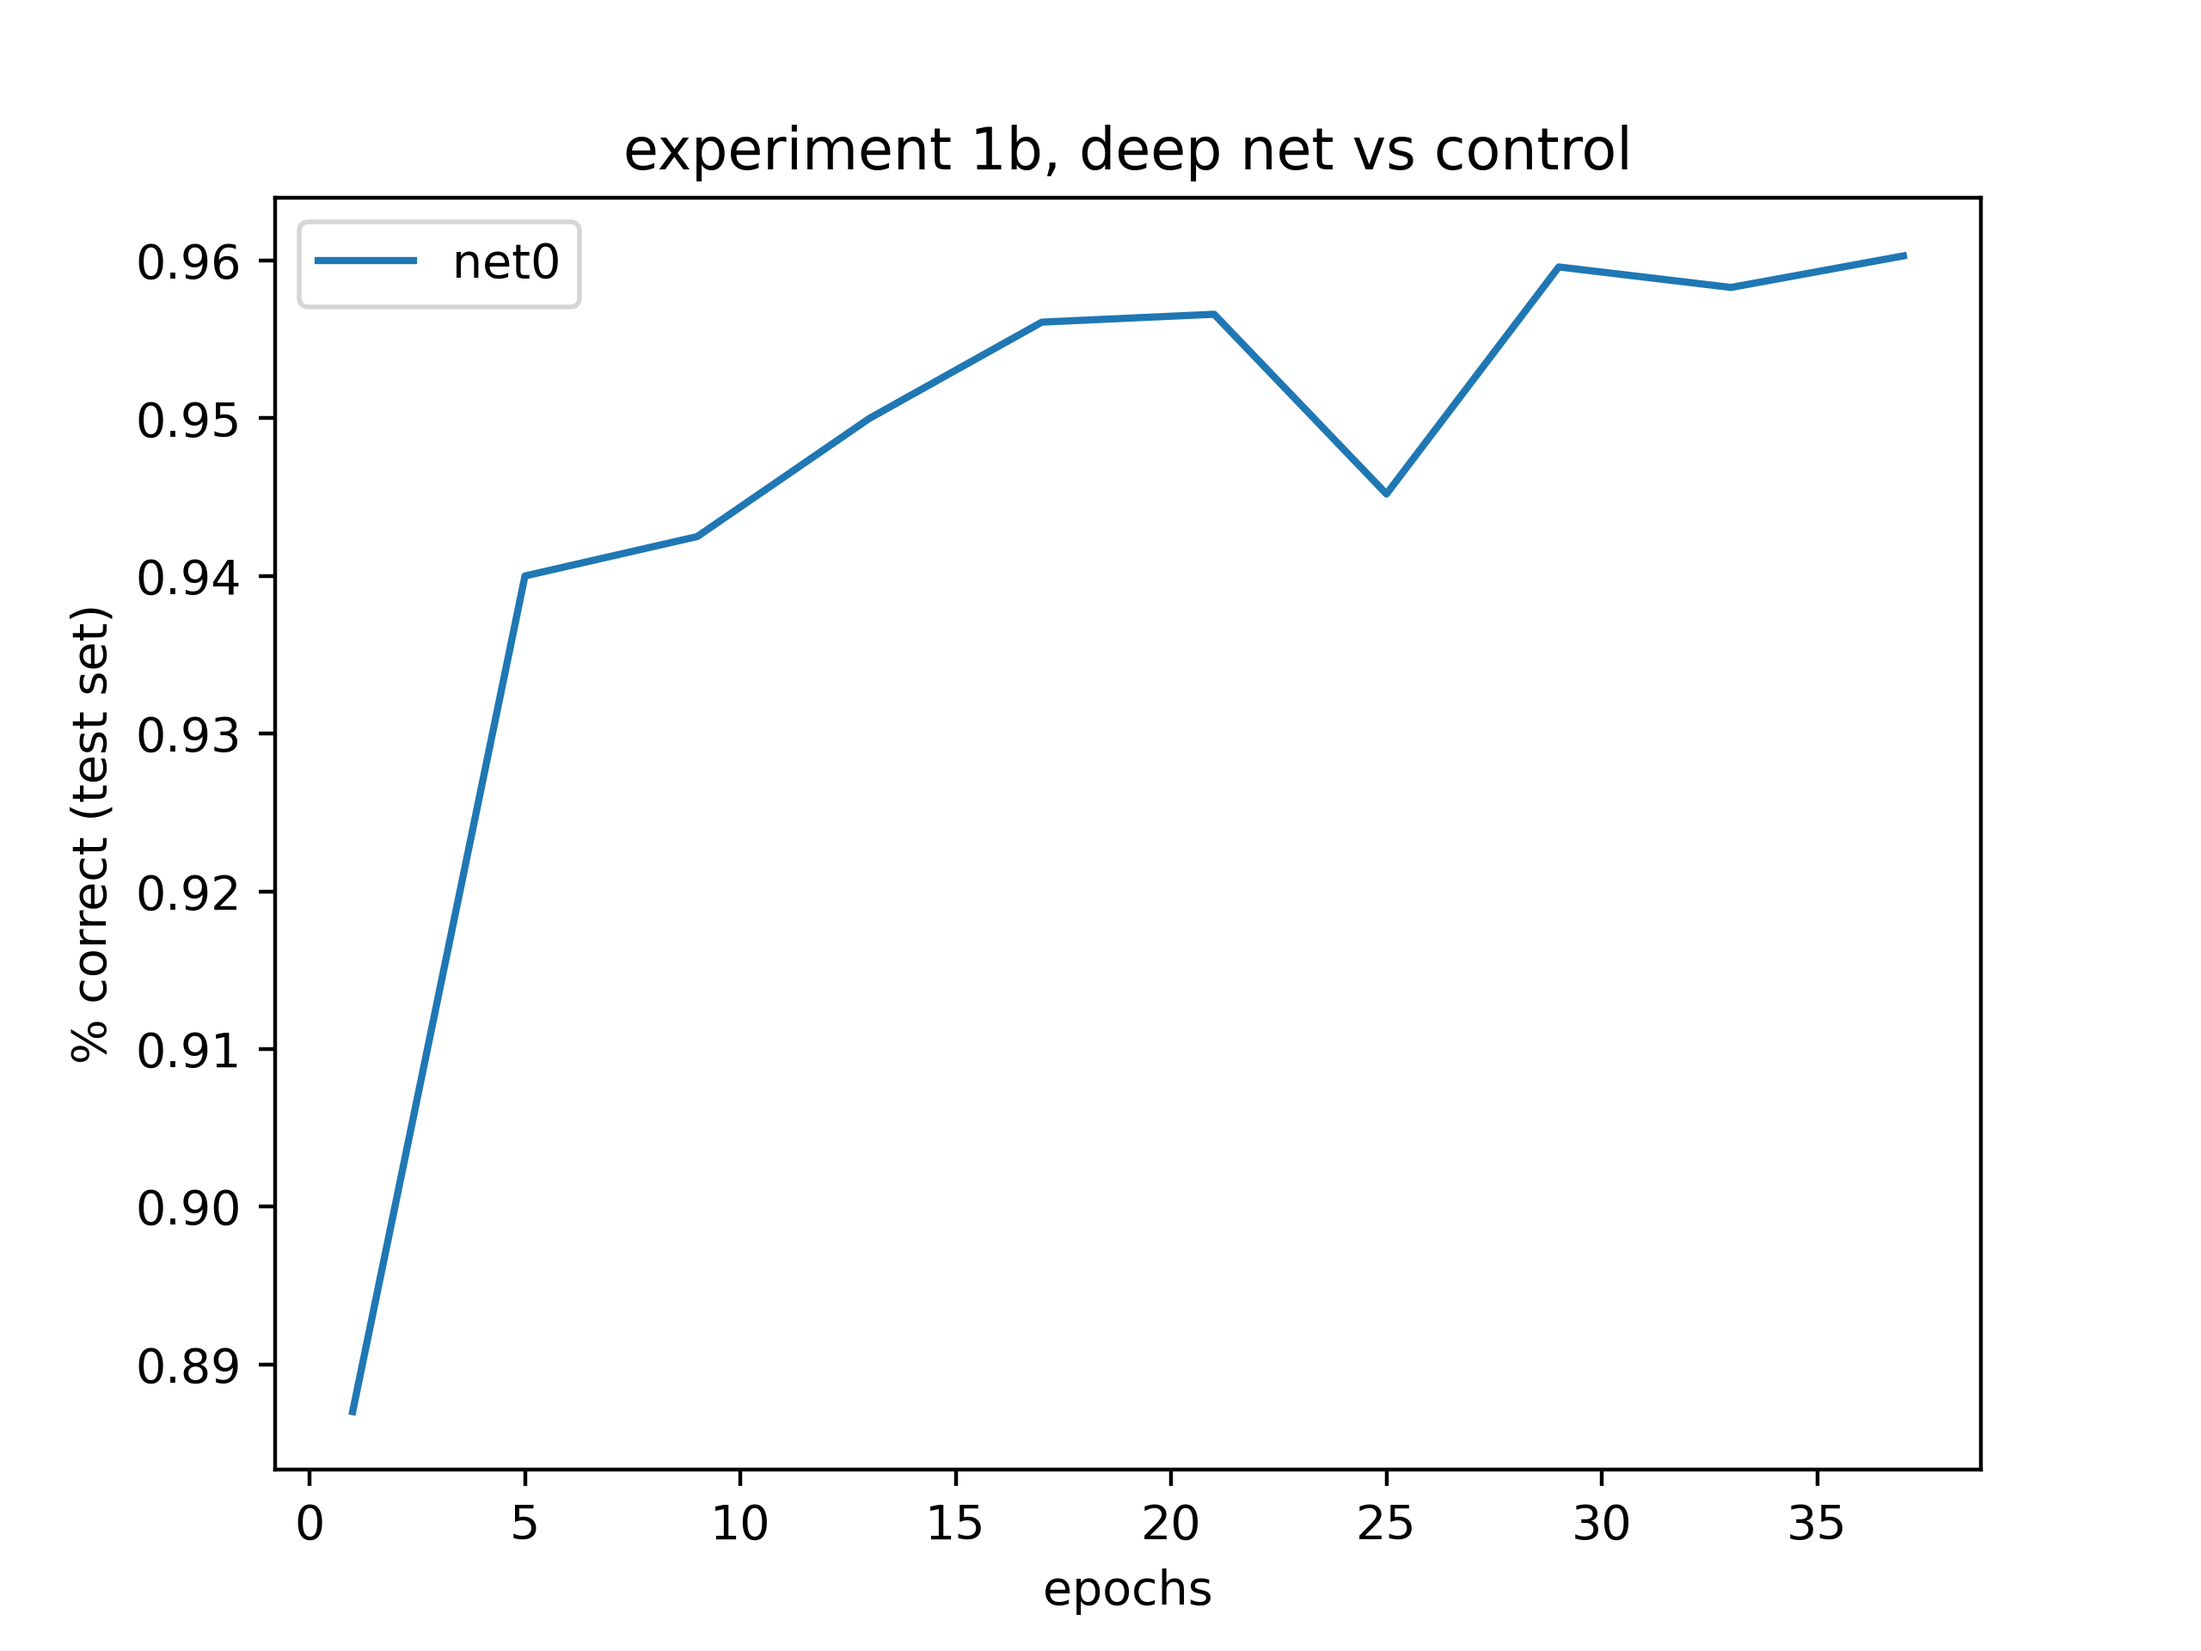
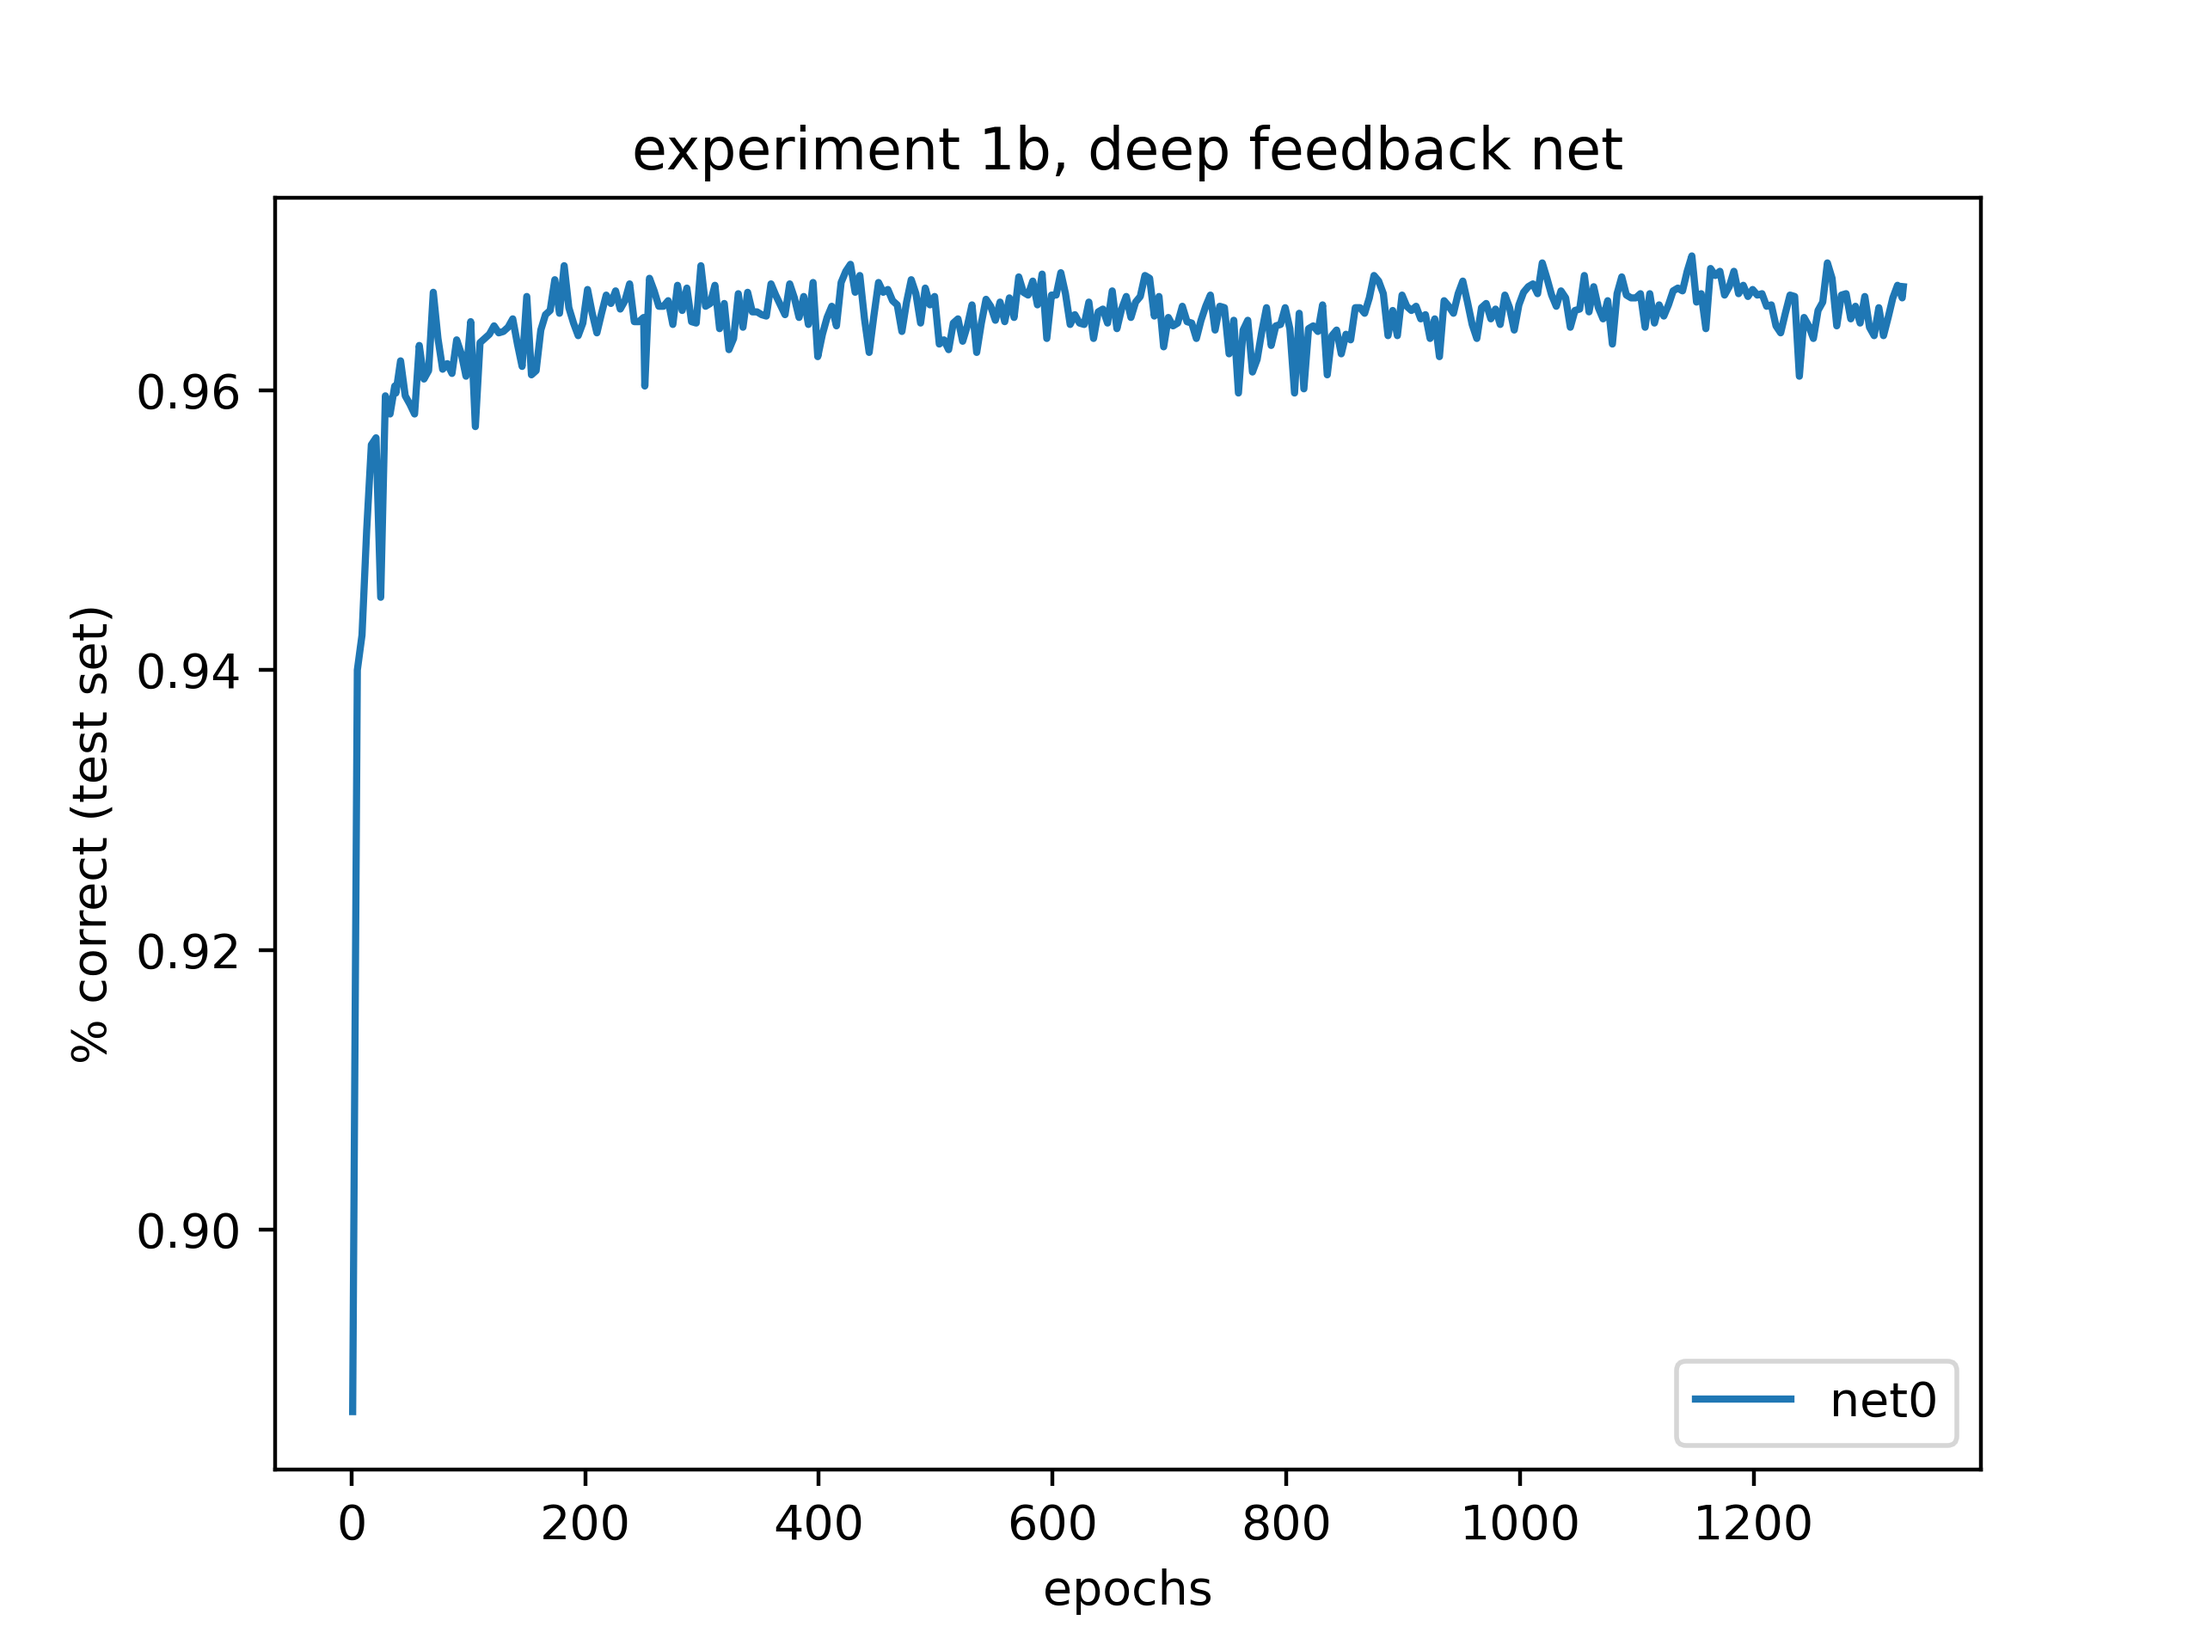
Continued deep feeback experiment 1b for more epochs.

diff --git a/experiments/deepFeedback/runDeepFeedback.py b/experiments/deepFeedback/runDeepFeedback.py
@@ -27,13 +27,14 @@ STATS_PATH = os.path.join(BASE_DIR, "archive/experiment1b/stats")
 def main():
 
   # train networks
-  part1b(total_epochs=40)
+  #part1b(total_epochs=40)
+  part1b(total_epochs=1330, resumeFromEpoch=1327)
   # plot results (using backups from disk)
   #plotPart1b()
 
 
 
-def part1b(total_epochs):
+def part1b(total_epochs, resumeFromEpoch=None):
   """
   Same as part 1, except now seeding first iteration with gaussian noise, and using 4 iterations for training.
   Note: number of iterations to do when training is determined by the default value of totalIter in DeepFeedNet:feedforward()
@@ -54,12 +55,26 @@ def part1b(total_epochs):
   net0 = DNetwork.Network(sizes, name="net0", backupDir=BACKUP_DIR)
 
   #evaluateNet(netControl, print=True)
-  evaluateNet(net0, verbose=True, totalIter=EVAL_ITERS)
 
   # now train networks:
   stats = { "epochs": [], "net0": [] }
   rate, mini_batch_size = 3.0, 10
   curEpoch = 0
+
+  # load prev data from disk if applicable:
+  if resumeFromEpoch is not None:
+    curEpoch = resumeFromEpoch
+    pklName = f"epoch{zeroPad(resumeFromEpoch, 4)}.pkl"
+    print(f"resuming from: {pklName}")
+    net0.load(pklName)
+
+    if os.path.exists(STATS_PATH + '.pkl'):
+      with open(STATS_PATH + '.pkl', 'rb') as f:
+        stats = pickle.load(f)
+        print('loaded existing stats from file')
+
+  evaluateNet(net0, verbose=True, totalIter=EVAL_ITERS)
+
   for e in range(curEpoch+1, total_epochs+1, 4):
     net0.SGD(training_data, e, mini_batch_size, rate, test_data=test_data)
     #netControl.SGD(training_data, e, mini_batch_size, rate, test_data=test_data)

diff --git a/experiments/deepFeedback/README.md b/experiments/deepFeedback/README.md
@@ -55,6 +55,13 @@ prevFeedback = np.random.normal(1, 0.5, (self.feedbackDim, 1))
 Additionally, the network was trained using the 4th iteration of each input, rather than iteration 2 (as experiment1a did).  (note: removed "control" network from this experiment).
 
 
+First 37 epochs:
+
+<img src="./archive/experiment1b/stats_epoch0037.png?raw=true" alt="main view" width="550">
+<img src="./archive/experiment1b/stats_iterations_epoch0037.png?raw=true" alt="main view" width="550">
+
+1330 epochs:
+
 <img src="./archive/experiment1b/stats.png?raw=true" alt="main view" width="550">
 
 <img src="./archive/experiment1b/stats_iterations.png?raw=true" alt="main view" width="550">
